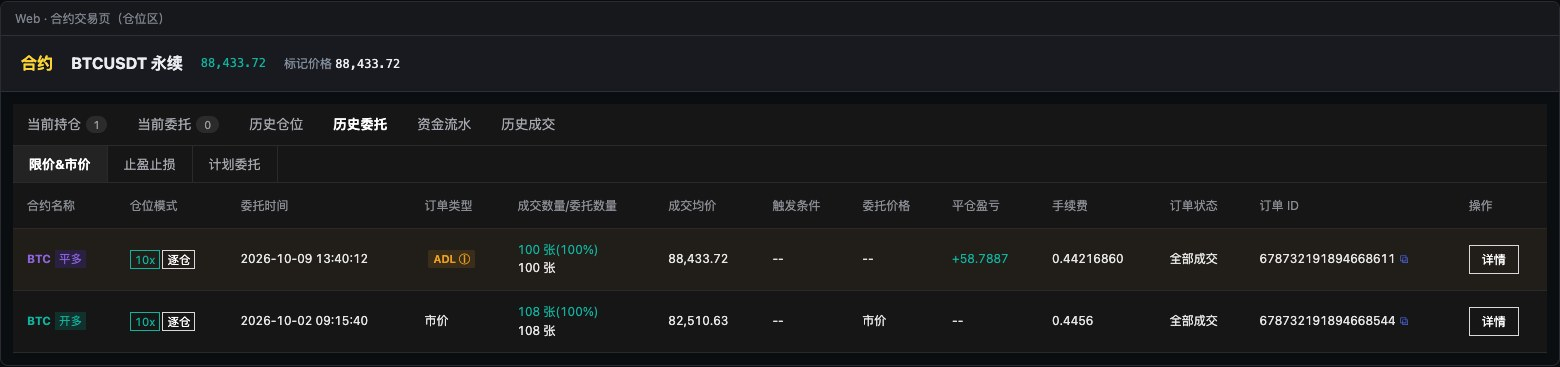
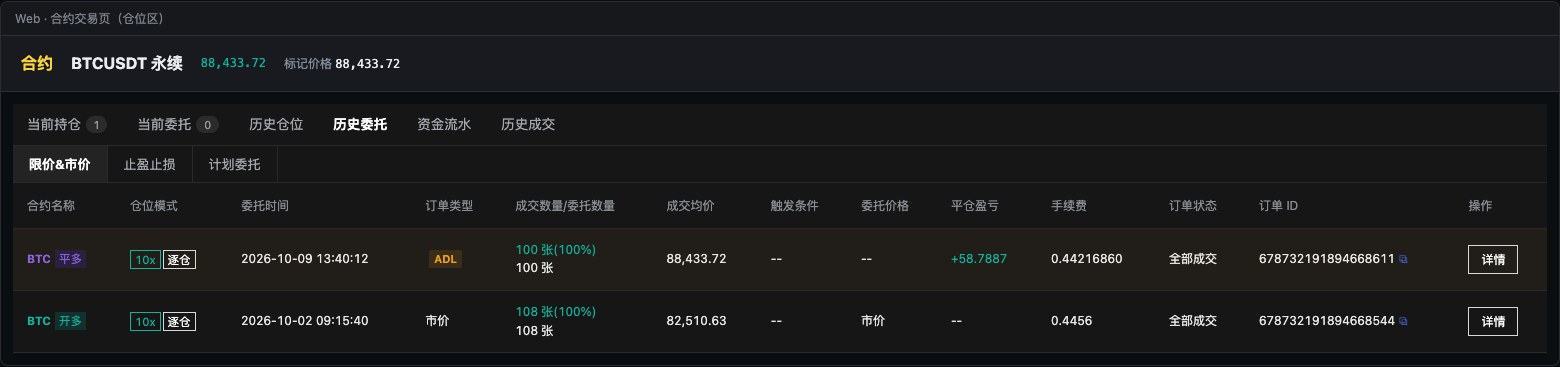
Show plain ADL label without explanatory tooltip

diff --git a/中台ADL减仓_PRD_V1.0.html b/中台ADL减仓_PRD_V1.0.html
@@ -79,7 +79,7 @@
 
 <div class="cover">
   <h1>中台 ADL 减仓 PRD</h1>
-  <div class="ver">版本 V3.2 · 2026-10-20 · 修订人 Rhys</div>
+  <div class="ver">版本 V3.3 · 2026-10-20 · 修订人 Rhys</div>
   <div class="sub">需求类型：0→1 · 规模 L ｜ 配套原型：<a href="1009-中台ADL减仓.html">1009-中台ADL减仓.html</a> ｜ 规则来源：规则台账_ADL减仓 v1.0（R01–R19）</div>
 </div>
 
@@ -111,7 +111,7 @@
 <table>
   <tr><th>角色</th><th>诉求</th><th>本期满足方式</th></tr>
   <tr><td>运营 / 风控（使用方）</td><td>按需减仓并追溯各人员操作</td><td>张数输入与执行预览；减仓数量下方展示所有人员的历史操作日志</td></tr>
-  <tr><td>被减仓用户（影响方）</td><td>了解减仓成交和实际费用</td><td>仅历史委托展示 ADL 数据、标签及说明；手续费按实际适用费率收取</td></tr>
+  <tr><td>被减仓用户（影响方）</td><td>了解减仓成交和实际费用</td><td>仅历史委托展示 ADL 数据及标签；手续费按实际适用费率收取</td></tr>
 </table>
 
 <h3>1.3 竞品分析</h3>
@@ -185,7 +185,7 @@ stateDiagram-v2
   <tr><td>二次确认与结果</td><td>二次确认、执行中、成功 / 失败反馈</td></tr>
   <tr><td>订单 ID 明细</td><td>删除新增的操作人列；操作追溯统一放在减仓弹窗的历史操作日志</td></tr>
   <tr><td rowspan="2">用户端（App / Web）</td><td>当前持仓 / 当前委托</td><td>无新增元素：仓位数量变少或消失，平仓类挂单被撤</td></tr>
-  <tr><td>历史委托（App / Web）</td><td>仅历史委托新增 ADL 数据、标签及说明，展示实际手续费；其余历史不新增 ADL 数据和标签</td></tr>
+  <tr><td>历史委托（App / Web）</td><td>仅历史委托新增 ADL 数据及标签，展示实际手续费；其余历史不新增 ADL 数据和标签</td></tr>
 </table>
 
 <h3>2.3 术语解释</h3>
@@ -254,7 +254,7 @@ stateDiagram-v2
   <tr><td>F5</td><td>中台</td><td>减仓数量下新增历史操作日志，记录所有人员；订单明细不新增操作人列</td><td>新增</td><td>P0</td></tr>
   <tr><td>F6</td><td>中台</td><td>「未实现盈亏」「回报率」支持排序</td><td><span class="tag-mod">调整</span></td><td>P1</td></tr>
   <tr><td>F7</td><td>中台</td><td>「持仓量/可平量」张 / 币 / USDT 切换，「自动减仓量」跟随</td><td><span class="tag-mod">调整</span></td><td>P1</td></tr>
-  <tr><td>F8</td><td>App / Web</td><td>仅历史委托显示 ADL 记录、标签、实收手续费和说明</td><td>调整</td><td>P0</td></tr>
+  <tr><td>F8</td><td>App / Web</td><td>仅历史委托显示 ADL 记录、标签及实收手续费</td><td>调整</td><td>P0</td></tr>
   <tr><td>F9</td><td>App / Web</td><td>其余历史不新增 ADL 数据与标签，保留原有普通记录</td><td>调整</td><td>P0</td></tr>
   <tr><td>F10</td><td>App / Web</td><td>被撤挂单显示「已撤销 · 因 ADL」</td><td><span class="tag-new">新增</span></td><td>P0</td></tr>
 </table>
@@ -373,7 +373,7 @@ flowchart LR
   <tr><td>交易历史（App）/ 历史成交（Web）</td><td colspan="2">不新增 ADL 数据或标签，移除原型中新增的 ADL 成交记录；已有普通成交记录保持原样。</td></tr>
   <tr><td>历史仓位（App / Web）</td><td colspan="2">不新增 ADL 数据或标签，移除原型中新增的 ADL 示例记录；普通仓位记录沿用既有规则，账户余额和当前持仓仍按实际成交更新。</td></tr>
   <tr><td>资金流水（App / Web）</td><td colspan="2"><strong>不改动</strong>。ADL 与普通平仓一样，不在资金流水中产生记录（R20）。</td></tr>
-  <tr><td>「ADL」标签说明</td><td colspan="2">Web 鼠标悬浮 / App 点击「ADL」标签时显示：「自动减仓（ADL）：系统按标记价格减少您的部分或全部仓位，手续费按实际适用费率收取，以成交实收为准，减仓后您可随时重新开仓。」<span class="tag-td">⚠ P17 文案待确认</span></td></tr>
+  <tr><td>「ADL」标签</td><td colspan="2">仅展示「ADL」标签，不附加说明文字、信息图标、悬浮提示或点击弹层；App / Web 一致。</td></tr>
   <tr><td>通知</td><td colspan="2">本期不发站内信、邮件、短信、推送 <span class="tag-td">⚠ P05</span></td></tr>
 </table>
 
@@ -420,7 +420,6 @@ flowchart LR
   <tr><td>E8</td><td>中台</td><td>二次确认操作</td><td>点击「返回修改」或「确认执行」</td><td>持仓 ID、选择结果</td></tr>
   <tr><td>E9</td><td>中台</td><td>ADL 执行结果</td><td>执行完成（成功或失败）</td><td>持仓 ID、UID、合约、结果、失败原因（超持仓量 / 仓位不存在 / 条件不满足 / 状态不支持 / 系统异常）、成交张数、成交价、适用费率、实收手续费、扣费后已实现盈亏、撤销挂单数量、是否全部减仓、操作人、耗时</td></tr>
   <tr><td>E10</td><td>中台</td><td>取消弹窗</td><td>点击「取消」/ 关闭弹窗</td><td>持仓 ID、是否已输入数量</td></tr>
-  <tr><td>E11</td><td>App / Web</td><td>查看 ADL 说明</td><td>Web 悬浮 / App 点击「ADL」标签的 ⓘ</td><td>端、所在页面（历史委托）、UID</td></tr>
   <tr><td>E12</td><td>App / Web</td><td>浏览含 ADL 记录的历史页</td><td>打开历史委托，且列表中有 ADL 记录</td><td>端、页面、UID、ADL 记录条数</td></tr>
 </table>
 
@@ -482,7 +481,6 @@ flowchart LR
   <tr><td>P14</td><td>执行时灯数不足 5 格或未实现盈亏 ≤ 0，是继续执行还是报错</td><td>报错拒绝</td><td>3.4 #12、5.2</td></tr>
   <tr><td>P15</td><td>仓位强平中、合约暂停交易 / 结算 / 下架时能否执行</td><td>拒绝执行</td><td>3.4 #13、5.2</td></tr>
   <tr><td>P16</td><td>哪些中台角色能看到和使用「ADL减仓」</td><td>与现有「平仓」按钮权限一致</td><td>3.3.1</td></tr>
-  <tr><td>P17</td><td>用户端「ADL」标签的说明文案</td><td>见 3.3.5，需 PM / 客服确认</td><td>3.3.5</td></tr>
   <tr><td>P18</td><td>历史展示范围</td><td>已确认：仅历史委托展示 ADL 数据及标签，其余历史不新增</td><td>3.3.5</td></tr>
   <tr><td>P21</td><td>数量输入单位</td><td>已确认：仅张，取消币 / USDT 输入与换算</td><td>3.3.2</td></tr>
 </table>
@@ -515,6 +513,7 @@ flowchart LR
   <tr><td>V3.0</td><td>2026-10-13</td><td>初稿（评审前）</td><td>维持 R14「ADL 后撤销被减仓位全部平仓类挂单」，3.4 补充小于 / 等于 / 大于挂单量三种情况；版本历史删除「变更原因」列</td></tr>
 <tr><td>V3.1</td><td>2026-10-20</td><td>评审更新</td><td>删除红框字段；仅张数输入；新增跨人员操作日志；按实际收费并扣减盈亏；仅历史委托保留 ADL 数据及标签；同步更新原型截图与计算示例</td></tr>
   <tr><td>V3.2</td><td>2026-10-20</td><td>规则强调</td><td>将 R14 撤单规则提前至封面下方高亮展示：部分 / 全部 ADL 均撤销被减仓位全部平仓类挂单；保留开仓单和其他仓位挂单，范围不变</td></tr>
+  <tr><td>V3.3</td><td>2026-10-20</td><td>展示调整</td><td>用户端仅展示 ADL 标签；删除标签说明、信息图标、悬浮 / 点击提示及对应埋点与待确认项</td></tr>
 </table>
 
 </div></div>

diff --git a/1009-中台ADL减仓.html b/1009-中台ADL减仓.html
@@ -195,10 +195,7 @@ table.grid{border-collapse:separate;border-spacing:0;min-width:2900px;width:100%
 .u-tbl td{padding:10px 16px;border-top:1px solid #20242b;white-space:nowrap;vertical-align:middle}
 .u-tbl tr.hl td{background:rgba(240,160,32,.06)}
 .u-up{color:var(--up)}.u-down{color:var(--down)}
-.adl-chip{display:inline-flex;align-items:center;gap:3px;font-size:11px;font-weight:600;color:var(--adl);background:rgba(240,160,32,.12);border-radius:2px;padding:0 5px;line-height:18px;cursor:help;position:relative}
-.adl-chip .tip{display:none;position:absolute;left:0;top:22px;width:300px;background:#2b3139;color:var(--tx);font-weight:400;white-space:normal;line-height:1.7;padding:10px 12px;border-radius:4px;box-shadow:0 4px 12px rgba(0,0,0,.5);z-index:20}
-.adl-chip:hover .tip{display:block}
-.adl-chip .tip a{color:var(--yel)}
+.adl-chip{display:inline-flex;align-items:center;gap:3px;font-size:11px;font-weight:600;color:var(--adl);background:rgba(240,160,32,.12);border-radius:2px;padding:0 5px;line-height:18px;cursor:default;position:relative}
 .u-empty{height:180px;display:flex;flex-direction:column;align-items:center;justify-content:center;color:var(--tx3);gap:8px}
 .u-btn{height:24px;padding:0 10px;border-radius:3px;background:#2b3139;color:var(--tx);font-size:12px}
 .u-link{color:var(--yel);cursor:pointer}
@@ -843,7 +840,6 @@ const A={entry:82510.63,mark:88433.72,lev:10,cs:0.0001,q0:0.0108};
 A.im0=A.q0*A.entry/A.lev; // 开仓时逐仓保证金（逐仓余额）
 const AS={before:{z:108,light:5,ord:1},partial:{z:8,light:5,ord:0},full:{z:0,light:0,ord:0}};
 const ADLZ={partial:100,full:108};
-const TIP_U='<span class="tip">自动减仓（ADL）：系统按标记价格减少您的部分或全部仓位，手续费按实际适用费率收取，以成交实收为准，减仓后您可随时重新开仓。<br><span class="u-warn">⚠ 文案 / 客服口径待确认（Q9）</span></span>';
 let aState='before',aHTab='ord',uT='pos',uSub='lm';
 const af=(n,d=2)=>Number(n).toLocaleString('en-US',{minimumFractionDigits:d,maximumFractionDigits:d});
 const bz=z=>+(z*A.cs).toFixed(6);
@@ -913,7 +909,7 @@ function uRender(){
   const st=AS[aState],done=aState!=='before',z=ADLZ[aState]||0,q=bz(z),pnl=(A.mark-A.entry)*q-q*A.mark*feeRate(),roe=pnl/A.im0*100,m=pm(st.z),T='2026-10-09 13:40:12',full=aState==='full';
   const NM={pos:'当前持仓',open:'当前委托',phist:'历史仓位',hist:'历史委托',flow:'资金流水',fill:'历史成交'};
   document.querySelectorAll('#uTabs button').forEach(b=>{const t=b.dataset.t;b.classList.toggle('on',t===uT);b.innerHTML=NM[t]+(t==='pos'?`<span class="bdg">${st.z?1:0}</span>`:t==='open'?`<span class="bdg">${st.ord}</span>`:'')});
-  const chip=t=>`<span class="adl-chip">${t} ⓘ${TIP_U}</span>`;
+  const chip=t=>`<span class="adl-chip">${t}</span>`;
   const empty=t=>`<div class="u-empty"><div style="font-size:28px">📄</div>${t}</div>`;
   const sym=(sd,cls='')=>`<span class="sym ${cls}">BTC</span><span class="sd ${cls}">${sd}</span>`;
   const lev=(x,cls='')=>`<span class="lev ${cls}">${x}x</span><span class="mode">逐仓</span>`;
